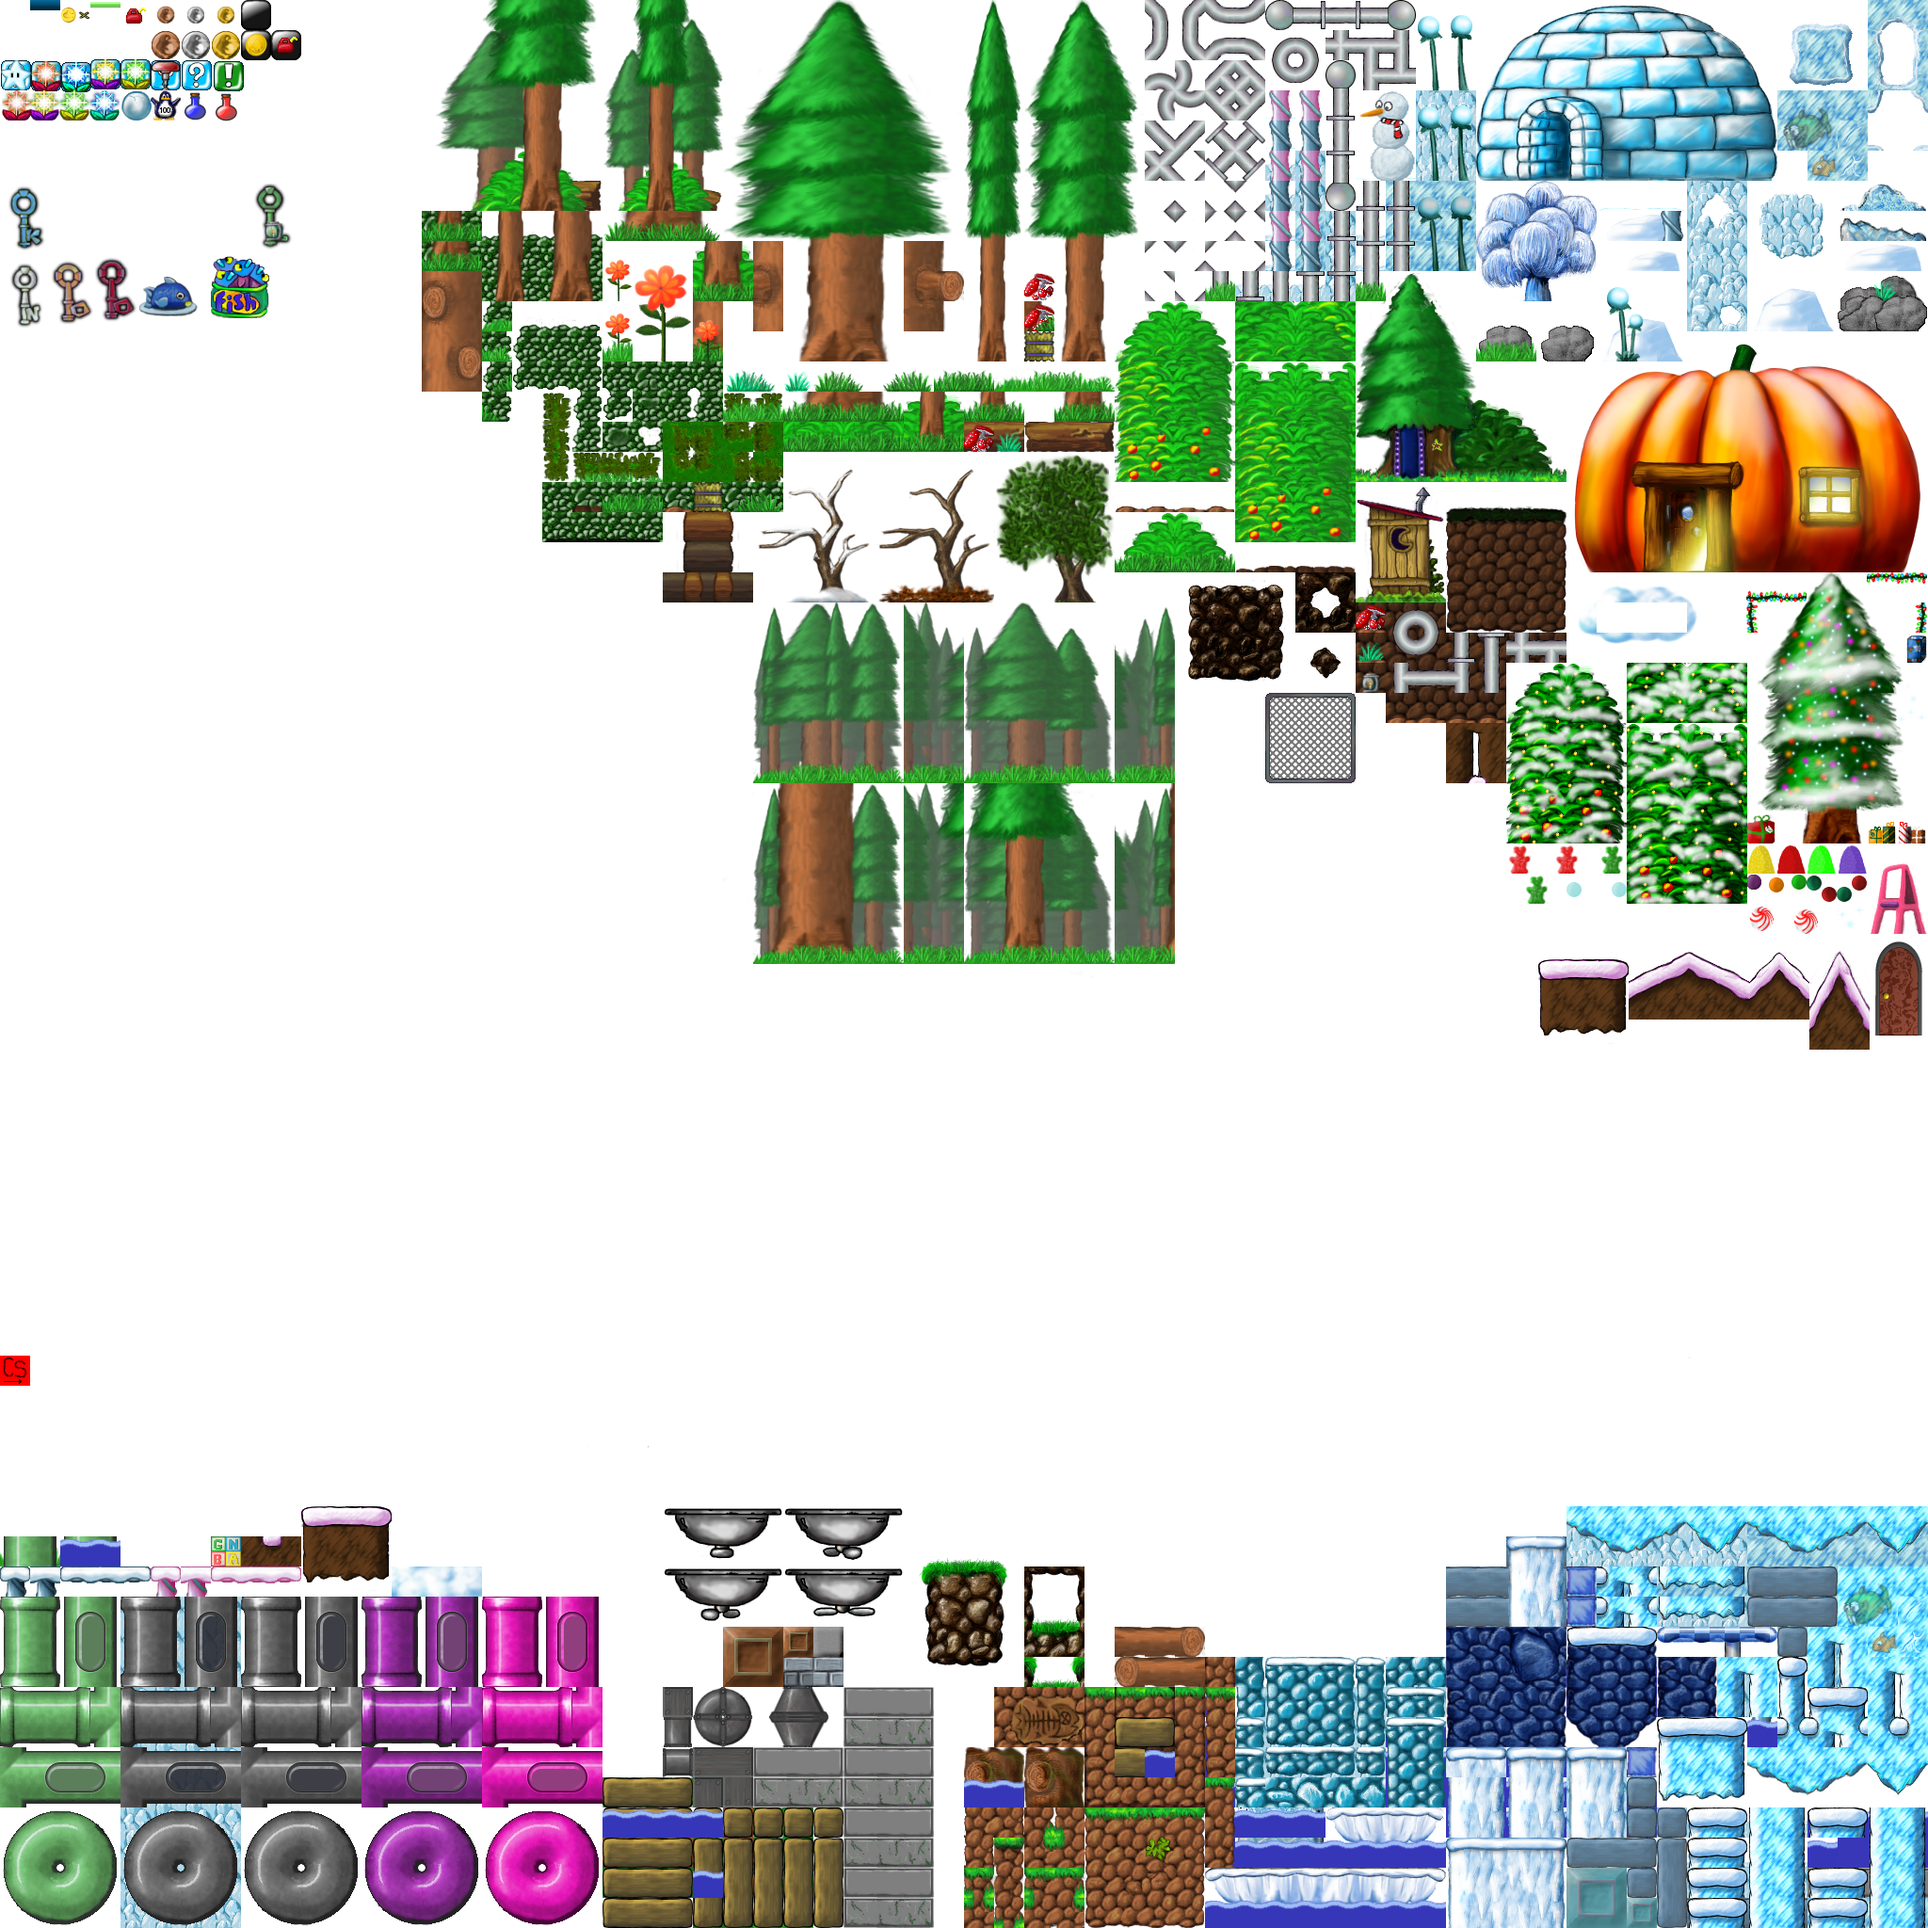
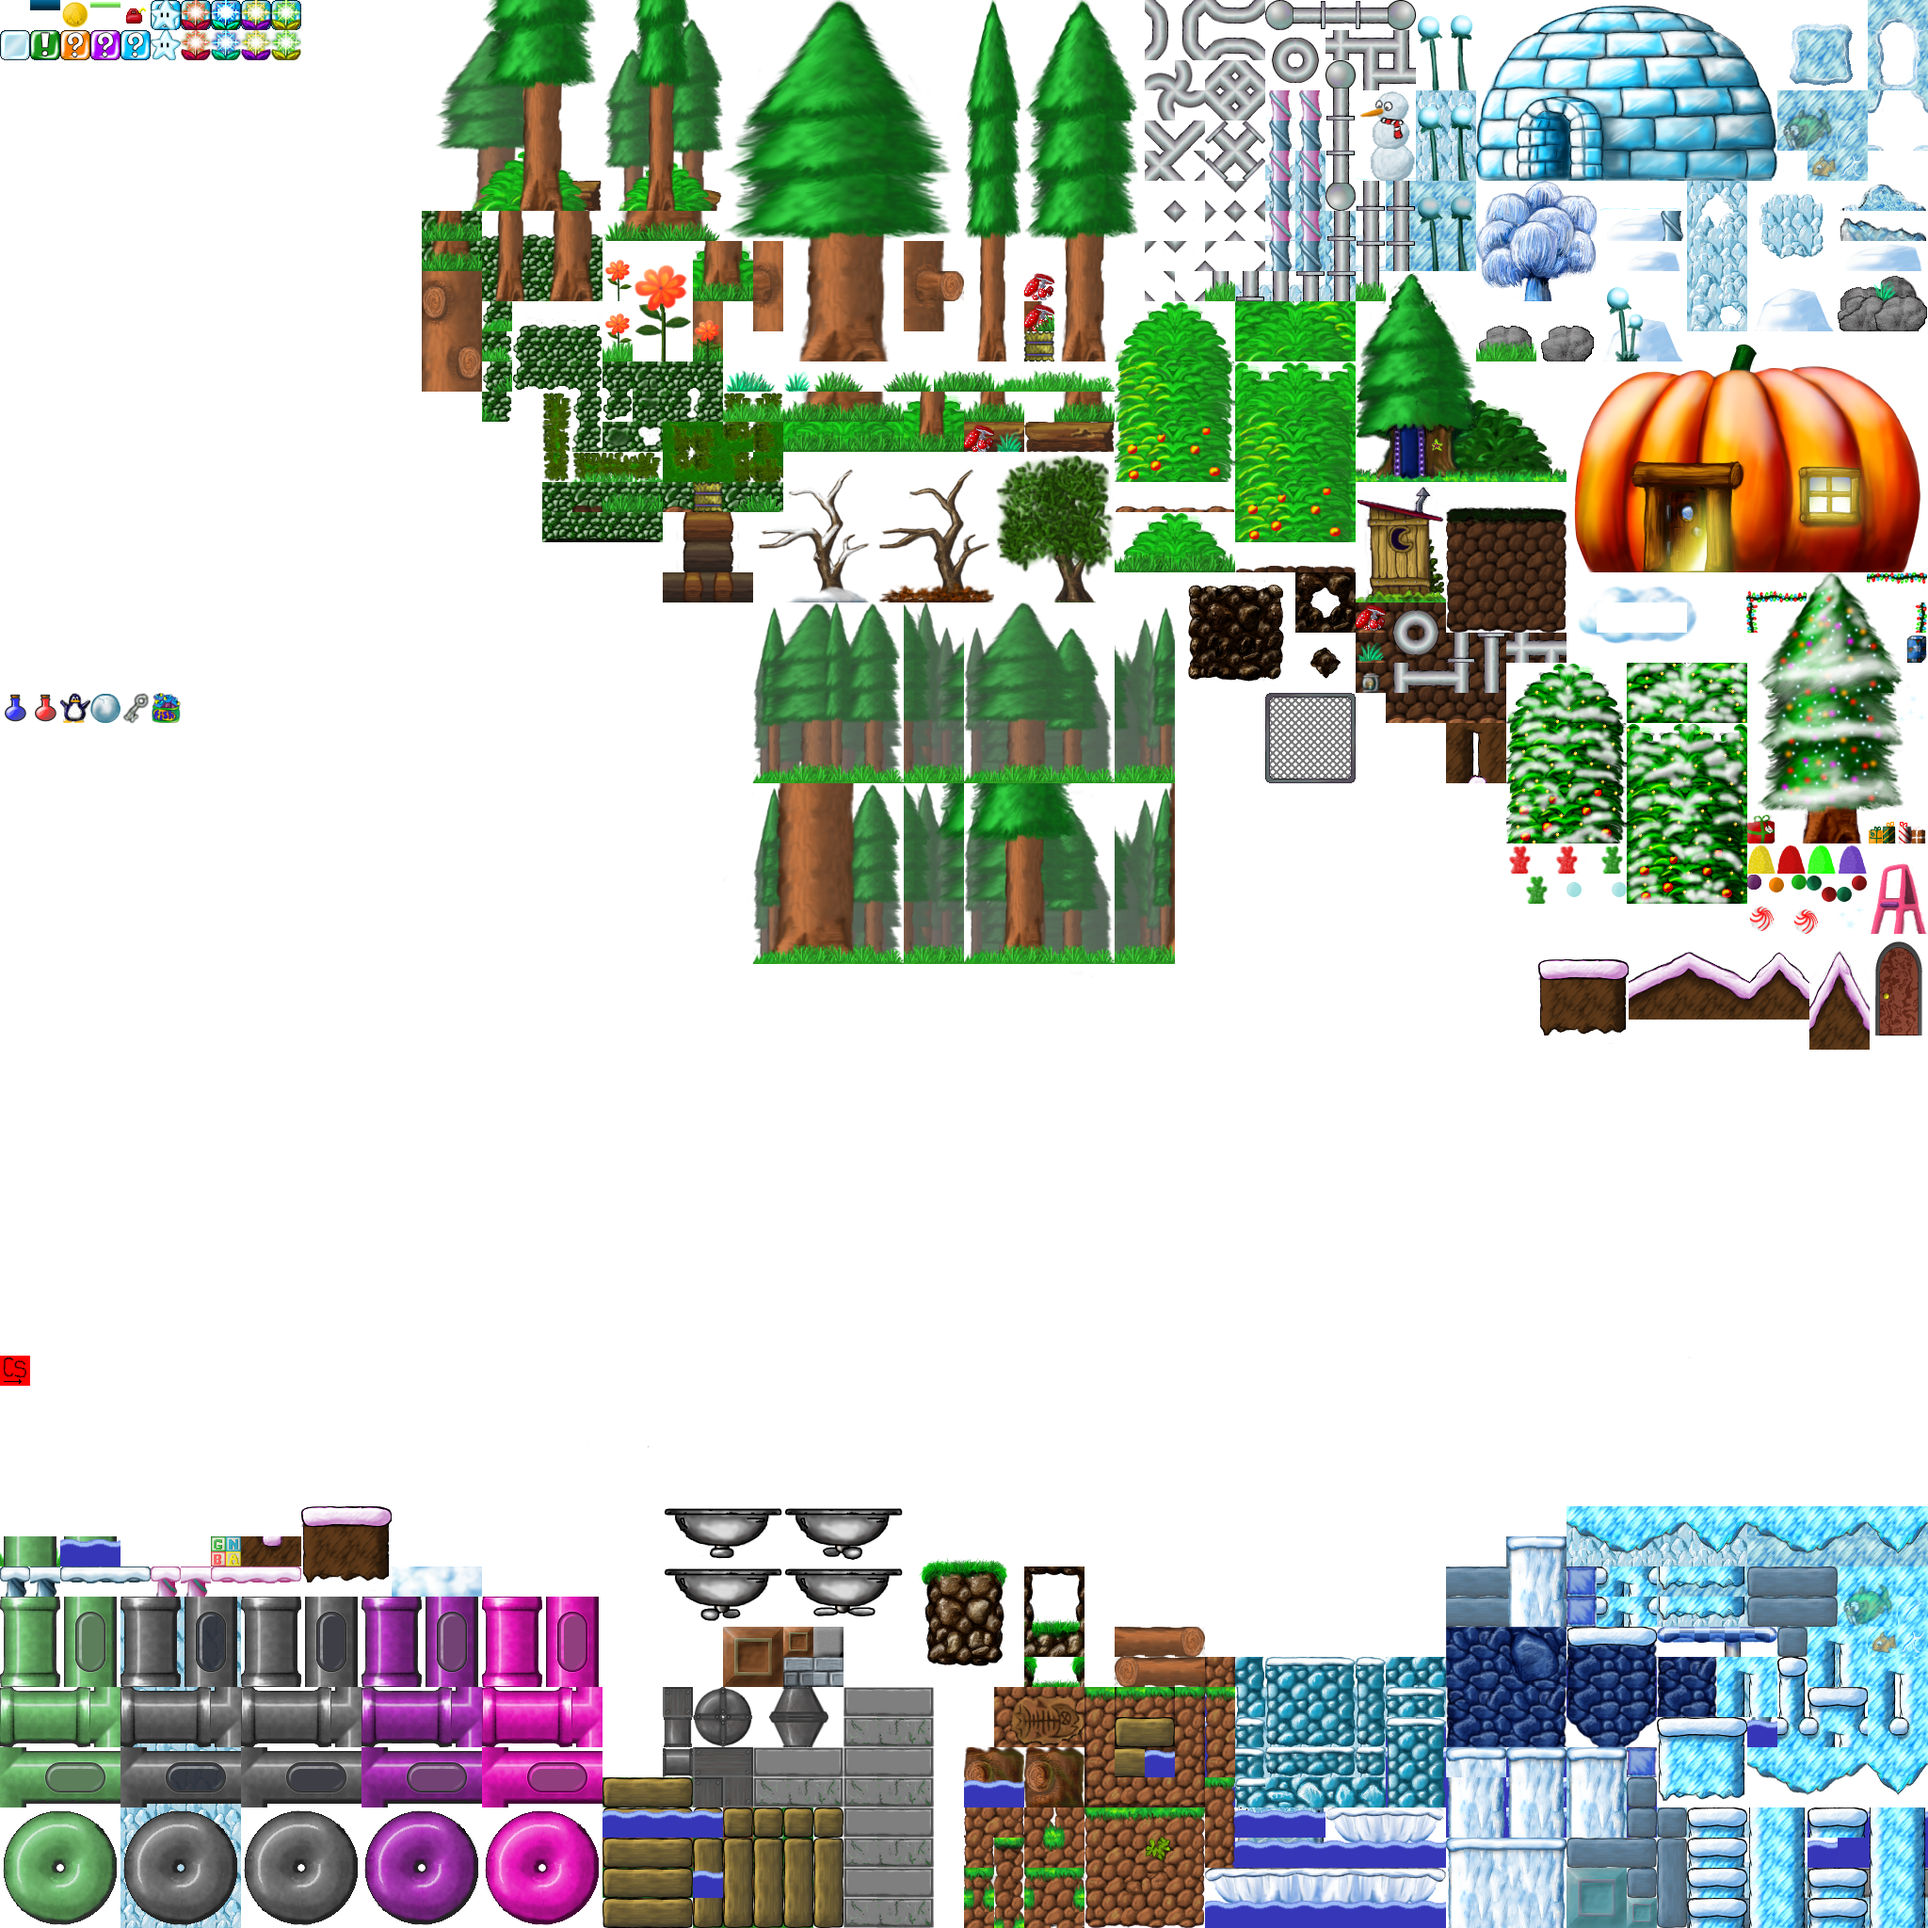
- Added (loot/powerup) block spawning mechanism. - First use of sprite atlas.

Changed region(s): [[0.0, 0.0938, 0.1562, 0.1875], [0.0, 0.0, 0.1562, 0.0625], [0.0, 0.3438, 0.0938, 0.375]]

diff --git a/src/game.js b/src/game.js
@@ -51,6 +51,9 @@ RocketTux.Game.prototype = {
     this.coinsInLevel = 0;
     this.coinSound = this.game.add.audio('collect');
     
+    // Add group for item/powerup/info blocks 
+    this.blocks = this.game.add.group();
+    
     // Add boosts
     this.boosts = Math.max(2, (Math.floor(this.mapSections / 4))) + RocketTux.bonusBoosts; // At least 2 + bonus
     
@@ -106,6 +109,8 @@ RocketTux.Game.prototype = {
     this.sndWarp = this.game.add.audio('warp');
     
     // Populate map
+    this.spawnBlocks();
+    this.game.world.bringToTop(this.blocks);
     this.spawnCoins();
     this.game.world.bringToTop(this.coins);
     
@@ -482,6 +487,43 @@ RocketTux.Game.prototype = {
     //  Add and update the score
     this.coinsCollected += 1;
     this.coinSound.play();
+  },
+  spawnBlocks: function(){
+    var blockTypes = ["blk-misc", "blk-danger", "blk-powerup", "blk-quest"];
+    var blocksToSpawn = this.game.rnd.between(RocketTux.unlocks.levelSectionsMin, RocketTux.unlocks.levelSectionsMax) + RocketTux.unlocks.levelSectionsMin;
+    var blocksSpawned = 0;
+    var limitedSpawns = 0;
+    var columns = this.mapSections * 40 - 2; // Don't spawn one in the last two columns of the level
+    
+    console.log("Spawning %s blocks!", blocksToSpawn);
+  
+    while (blocksSpawned < blocksToSpawn){
+        var picked = this.pickRandomProperty(blockTypes);
+
+        if (blockTypes[picked] == "blk-powerup" || blockTypes[picked] == "blk-quest")
+            limitedSpawns ++;
+        
+        if (limitedSpawns > 2)
+            picked = this.game.rnd.between(0, 1); // blk-misc, blk-danger
+        
+        var tilePosX = this.game.rnd.between(5, columns);
+        var tilePosY = this.game.rnd.between(10, 20); // Forcing lower locations makes it a bit more challenging
+        var targetTile = this.map.getTile(tilePosX, tilePosY, this.theLevel, true);
+        
+        if (targetTile){
+            var TargetTileIndex = targetTile.index;
+            var block;
+            var posX = tilePosX * 32;
+            var posY = tilePosY * 32;
+            
+            if (TargetTileIndex < 2881){
+                block = this.blocks.create(posX, posY, 'atlas');
+                block.frameName = blockTypes[picked];
+                this.setPhysicsProperties(block, 0, 0, 32, 32, 0, 0);
+                blocksSpawned++;
+            }
+        }
+    }
   },
   quit: function(){
     this.gameOver = true; // Prevent crash caused by running game loop after destroying the following objects

diff --git a/src/preload.js b/src/preload.js
@@ -16,7 +16,8 @@ RocketTux.Preload.prototype = {
     this.load.setPreloadSprite(this.preloadBar);
  
   	// Load game assets
-    this.load.image('world', 'data/world.png');
+    this.load.image('world', 'data/world.png'); // For tilemap
+    this.game.load.atlas('atlas', 'data/world.png', 'data/world.json');  // For all other elements
     this.load.spritesheet('entities', 'data/entities.png', 64, 64);
     this.load.spritesheet('skies', 'data/skies.png', 1024, 1024);
     this.load.spritesheet('skies-special', 'data/skies-special.png', 1024, 1024);

diff --git a/src/mainmenu.js b/src/mainmenu.js
@@ -53,7 +53,6 @@ RocketTux.MainMenu.prototype = {
     text = 'My Coins:\n' + localStorage.getItem('RocketTux-myWallet');
    // var displayCoins = this.game.add.text(8, 8, text, style);
    panel.add(new SlickUI.Element.Text(0, 0, text)).center();
-    
   },
   update: function() {
 /*      
